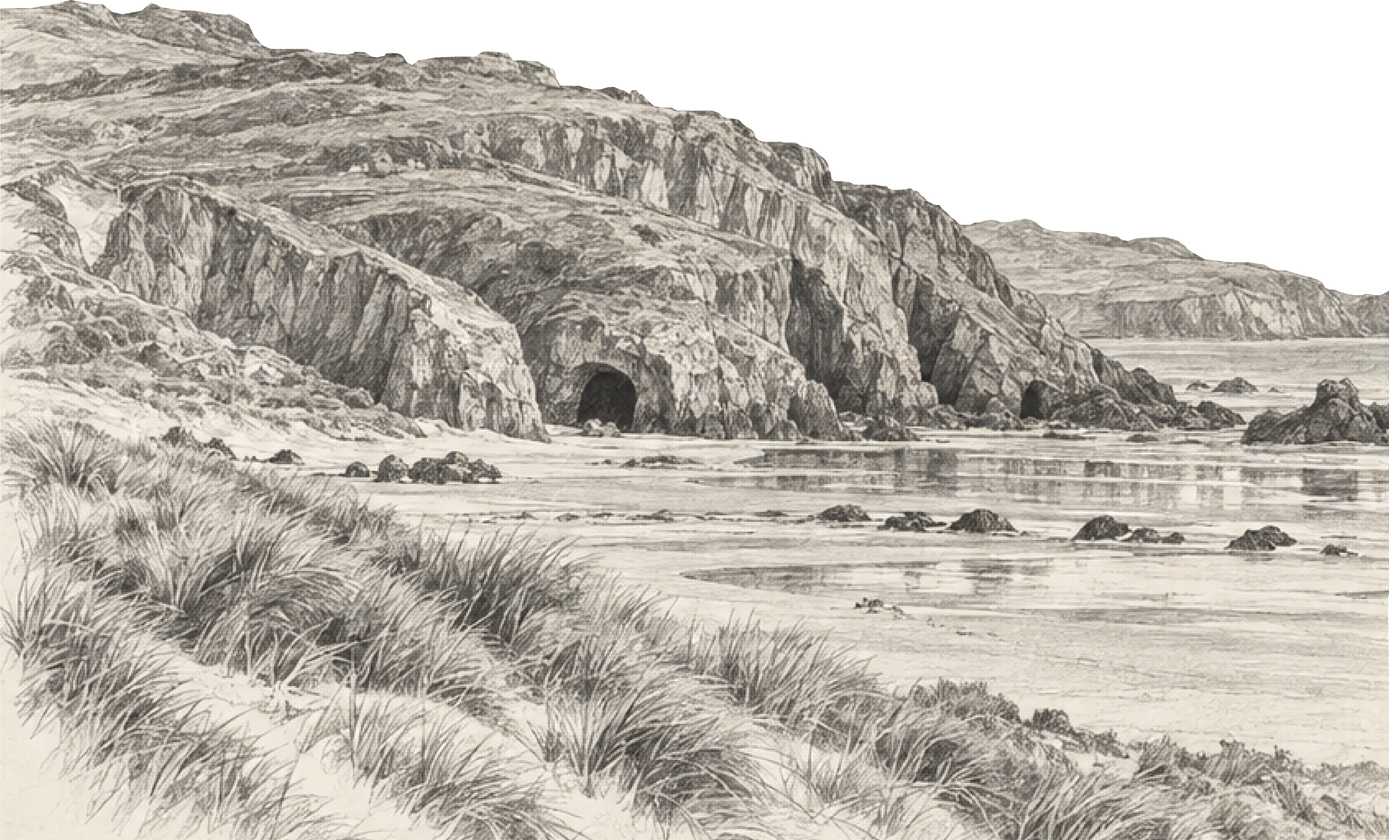
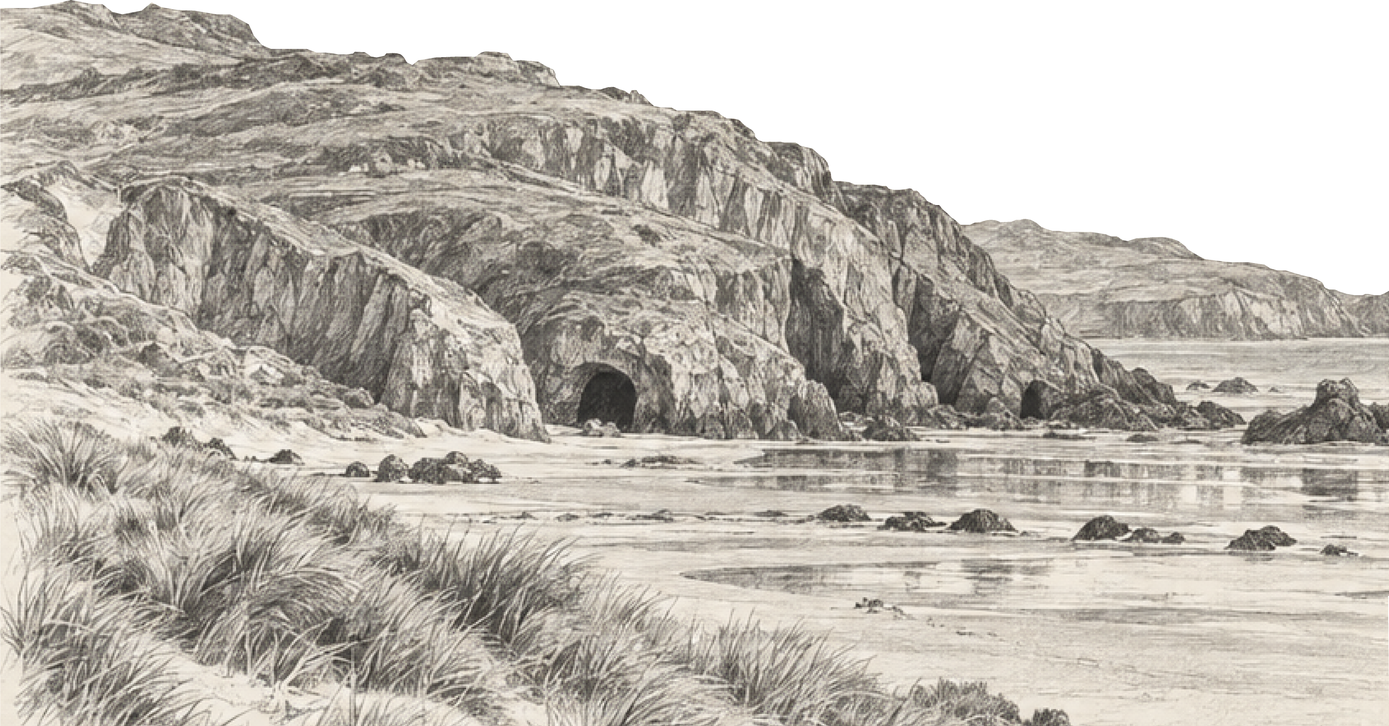
style(home): taller third section with a full-width etching
Key change:
- The etching (малі6.png, now 3522 x 1841) is as wide as the description above it and in line with it (63.946%, 33% of the page), one blank line below it, at the drawing's own ratio
- Section 3 grows about 5% taller (aspect 1.4142 -> 1.3475, 1018 -> 1069px at 1440) to fit it, with the same margin below the etching as above the image row
- The image row, quote and description are re-based on the new height so they keep their exact positions; the studio photo fills the full new height
- The mobile picture area takes the same 1.3475 ratio, and the etching's sizes hint becomes 33vw
- Commit the updated малі6.png

diff --git a/src/app/(site)/page.module.css b/src/app/(site)/page.module.css
@@ -59,6 +59,14 @@
     aspect-ratio: 1.4142 / 1;
 }
 
+/*
+ * Section 3 runs ~5% taller than the page so the full-width etching fits
+ * below the description; its vertical positions are re-based on this height.
+ */
+.studio {
+    aspect-ratio: 1.3475 / 1;
+}
+
 /* All pictures of a section; text layers sit above it. */
 .stage {
     position: absolute;
@@ -292,14 +300,14 @@
 
 /*
  * One line above the quote, as in the client's layout: малі10.png (the route
- * map, 1754:696) then малі8.png (field notes, 2492:779), both 6.44% of the
- * section high, so each width follows from its own ratio and neither is
- * cropped. The line starts at the quote's left edge.
+ * map, 1754:696) then малі8.png (field notes, 2492:779), both the same height,
+ * so each width follows from its own ratio and neither is cropped. The line
+ * starts at the quote's left edge.
  */
 .studioMap,
 .studioNotes {
-    top: 4.59%;
-    height: 6.44%;
+    top: 4.374%;
+    height: 6.136%;
 }
 
 .studioMap {
@@ -313,14 +321,14 @@
 }
 
 /*
- * Starts one blank line below the description, which ends at ~73.9% of the
- * section; the height gives the window малі6.png's 3522:2130 ratio.
+ * As wide as the description and in line with it, starting one blank line
+ * below it; the height gives the window малі6.png's 3522:1841 ratio.
  */
 .studioEtching {
-    left: 63.928%;
-    top: 76%;
-    width: 24.537%;
-    height: 20.986%;
+    left: 63.946%;
+    top: 72.382%;
+    width: 33%;
+    height: 23.244%;
 }
 
 .studioEtchingPlate {
@@ -335,7 +343,7 @@
     position: absolute;
     z-index: 1;
     left: 63.923%;
-    top: 16.313%;
+    top: 15.544%;
     width: 33%;
     font-family: var(--font-heading);
     letter-spacing: 0.1em;
@@ -352,7 +360,7 @@
     position: absolute;
     z-index: 1;
     left: 63.946%;
-    top: 27.8%;
+    top: 26.489%;
     width: 33%;
     font-family: var(--font-body);
     font-size: var(--home-text);
@@ -442,6 +450,10 @@
 
     .landscape .stage {
         aspect-ratio: 1.4142 / 1;
+    }
+
+    .studio .stage {
+        aspect-ratio: 1.3475 / 1;
     }
 
     .tracesTitle,

diff --git a/src/app/(site)/page.tsx b/src/app/(site)/page.tsx
@@ -109,7 +109,7 @@ export default async function Home() {
                 </div>
             </section>
 
-            <section className={`${styles.section} ${styles.landscape}`} aria-label={quoteLabel}>
+            <section className={`${styles.section} ${styles.landscape} ${styles.studio}`} aria-label={quoteLabel}>
                 <div className={styles.stage}>
                     <div className={styles.studioPhoto}>
                         <div className={styles.studioPhotoPlate}>
@@ -139,7 +139,7 @@ export default async function Home() {
                             <HomeImage
                                 src={journalImage("малі6.png")}
                                 alt="Pencil etching of coastal cliffs and sea caves, viewed north-east from the dune ridge at Maghera Strand, Co. Donegal"
-                                sizes="25vw"
+                                sizes="33vw"
                             />
                         </div>
                     </div>
